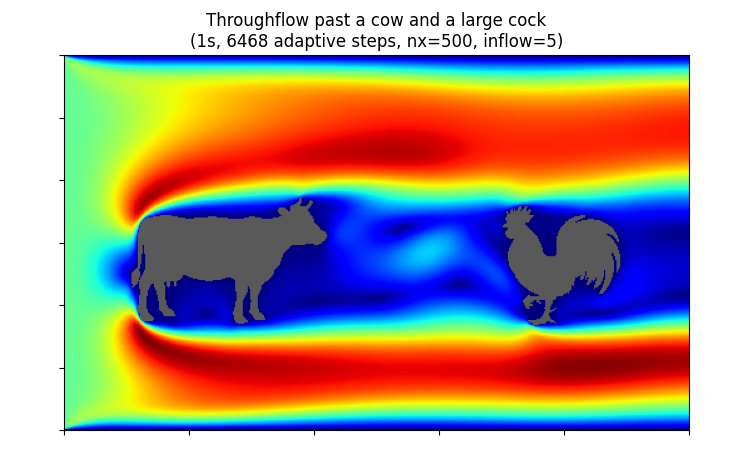
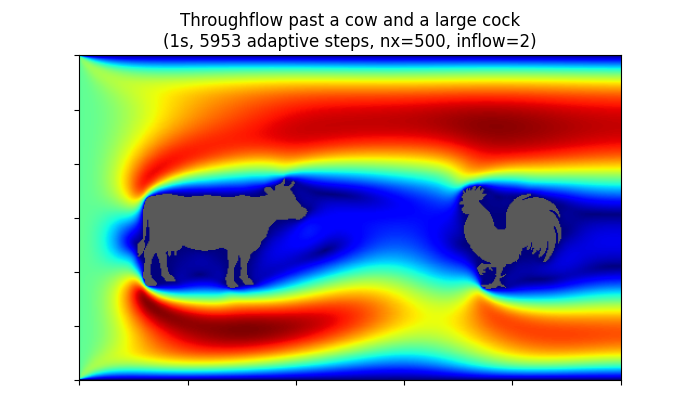
Fixed the aspect ratio for throwflow_cow_cock

diff --git a/demo/throughflow_cow_cock.py b/demo/throughflow_cow_cock.py
@@ -13,7 +13,7 @@ def parse_args():
     p = argparse.ArgumentParser(description=__doc__)
     p.add_argument("--lx", type=float, default=5.0)
     p.add_argument("--ly", type=float, default=3.0)
-    p.add_argument("--inflow", type=float, default=5.0)
+    p.add_argument("--inflow", type=float, default=2.0)
     p.add_argument("--nu", type=float, default=0.05)
     p.add_argument("--total-time", type=float, default=1.0,
                    help="simulated seconds to advance "
@@ -60,14 +60,12 @@ if __name__ == '__main__':
     cmap.set_bad('0.35')
     speed = np.ma.masked_where(solid, speed)
 
-    height = img.shape[0]
-    width = img.shape[1]
-    fig, ax = plt.subplots(figsize=(width / 100, height / 100), dpi=100)
+    height = (1.5 * img.shape[0]) // 100
+    width = (1.5 * img.shape[1]) // 100
+    fig, ax = plt.subplots(figsize=(width, height))
     im = ax.imshow(speed, origin='lower',
                    extent=[0, args.lx, 0, args.ly],
                    cmap=cmap, aspect='equal')
-    ax.set_xlim(0, args.lx)
-    ax.set_ylim(0, args.ly)
     ax.set_xticklabels([])
     ax.set_yticklabels([])
     ax.set_title(f'Throughflow past a cow and a large cock\n'
